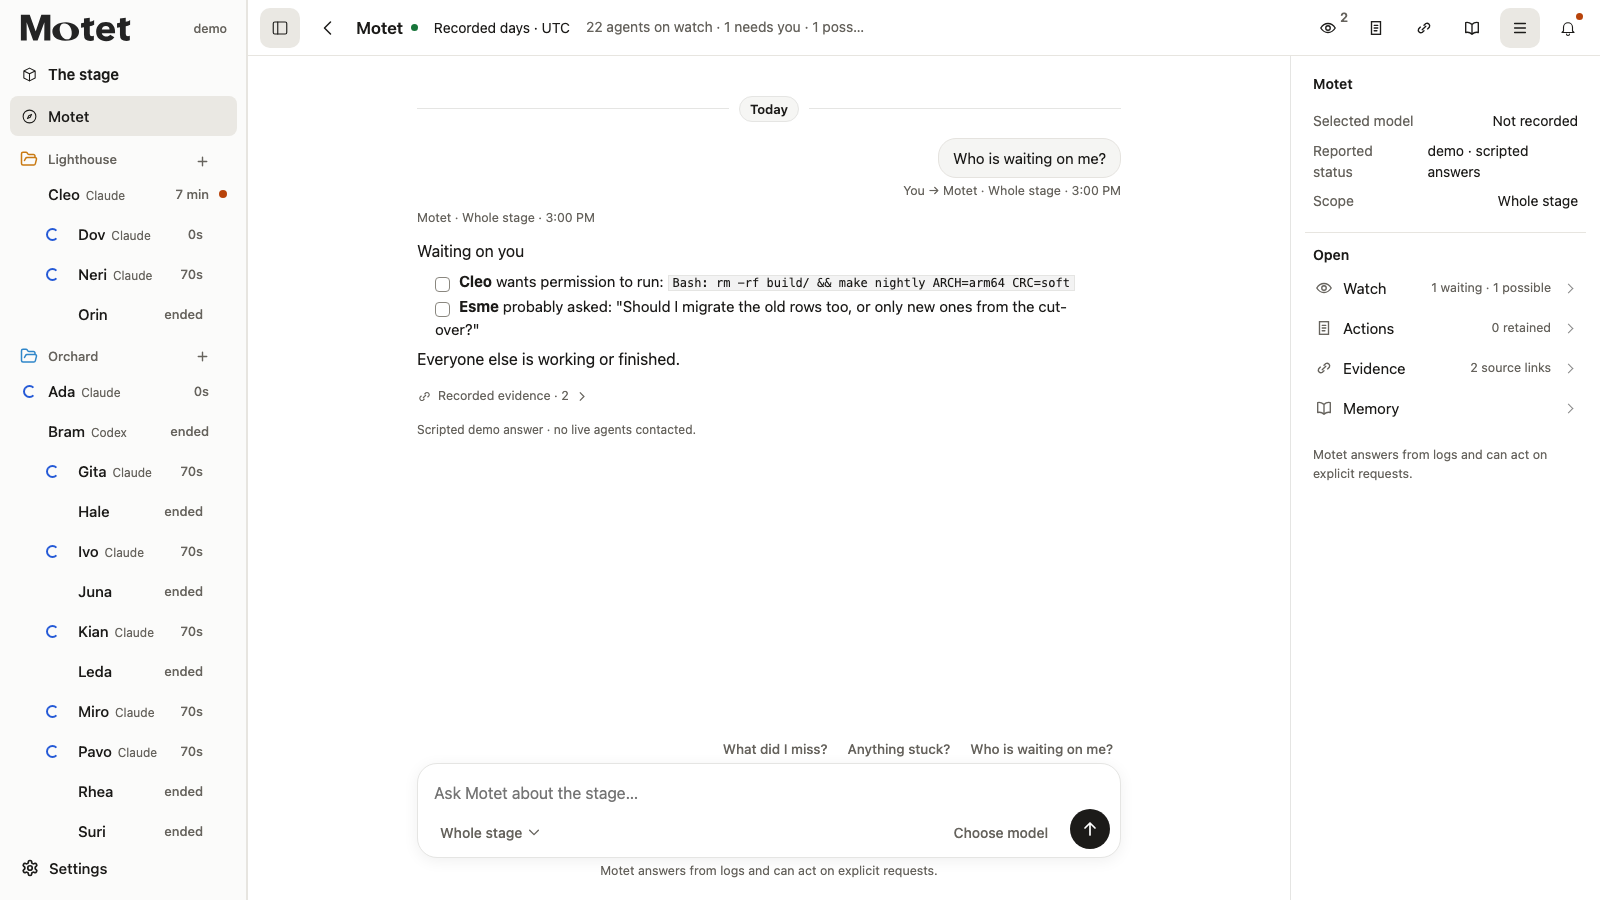
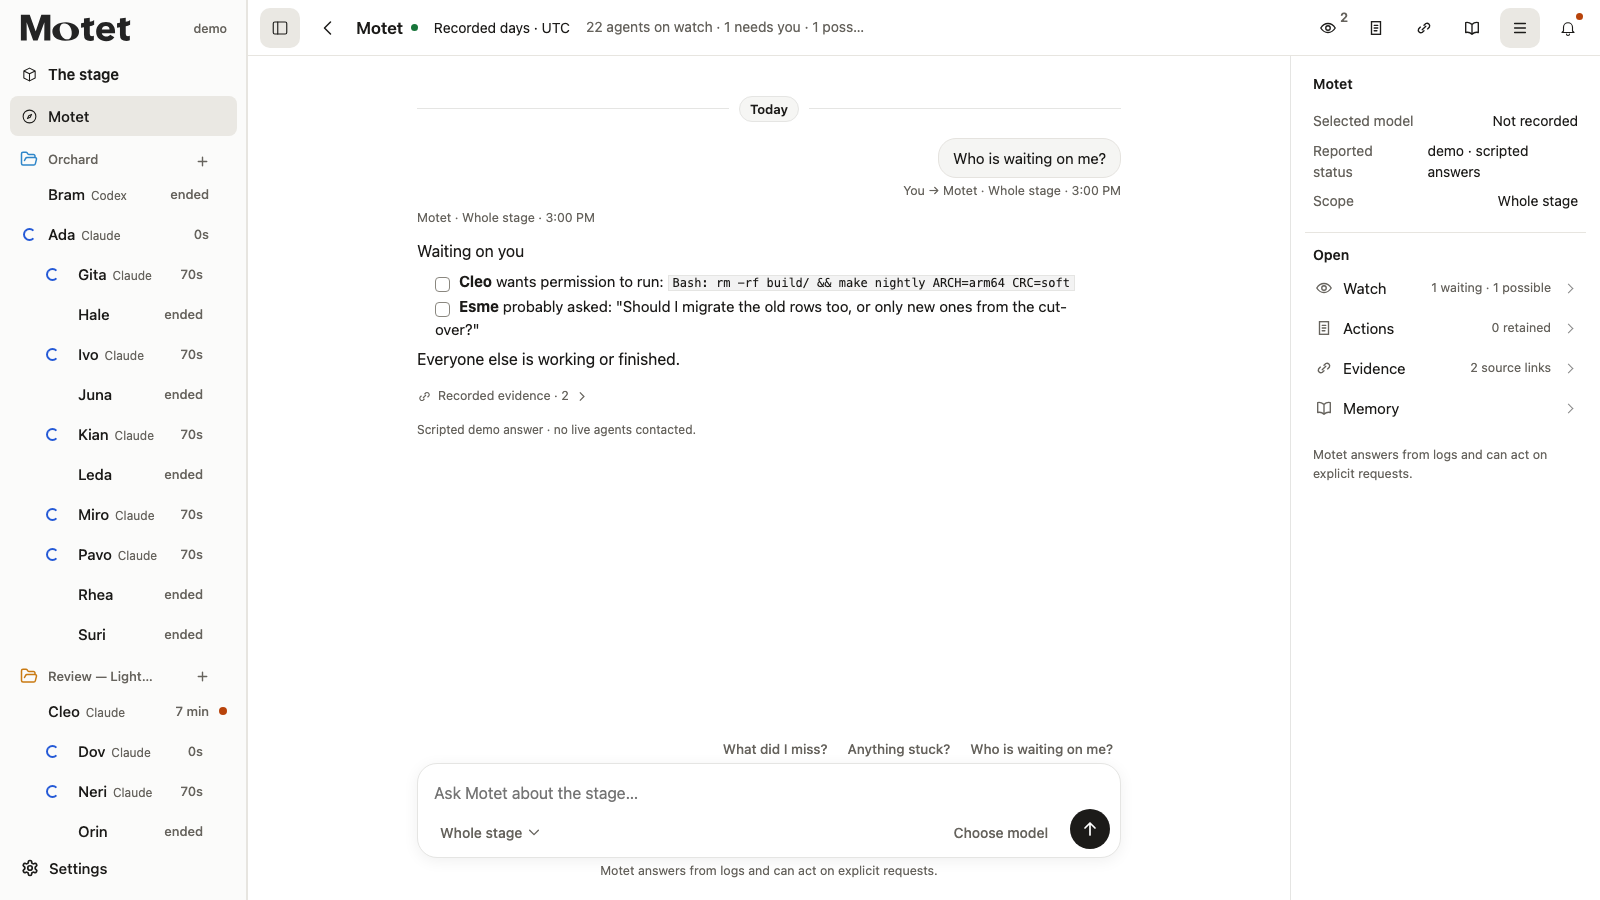
Keep the confirmed demo request visible in the hero

diff --git a/tests/test_page.js b/tests/test_page.js
@@ -4172,7 +4172,7 @@ let quietProofDeadline;(async()=>{
   const assert=require('assert/strict'),start=html.indexOf('function demo(){'),end=html.indexOf('/* Workspace shell helpers:',start),demoSource=html.slice(start,end);
   const expected=['Ada','Bram','Cleo','Dov','Esme','Codex cloud','Fen','Gita','Hale','Ivo','Juna','Kian','Leda','Miro','Neri','Orin','Pavo','Rhea','Suri','Tavi','Uma','Vero'];
   function verify(source){
-    const events=[],intervals=[],forbidden=()=>{throw Error('demo attempted a live effect')},c={Date:class extends Date{static now(){return 1800000000000}},DSEQ:0,location:{search:'?demo'},document:{createElement:()=>({})},$:()=>({after(){}}),paintWatch(){},lock(){},handle:e=>events.push(e),setInterval:(f,ms)=>intervals.push({f,ms}),setTimeout:forbidden,fetch:forbidden,XMLHttpRequest:forbidden,WebSocket:forbidden,EventSource:forbidden,Notification:forbidden,navigator:new Proxy({},{get:forbidden})};
+    const events=[],intervals=[],forbidden=()=>{throw Error('demo attempted a live effect')},c={Date:class extends Date{static now(){return 1800000000000}},DSEQ:0,location:{search:'?demo'},SNAMES:{},document:{createElement:()=>({})},$:()=>({after(){}}),paintWatch(){},lock(){},handle:e=>events.push(e),setInterval:(f,ms)=>intervals.push({f,ms}),setTimeout:forbidden,fetch:forbidden,XMLHttpRequest:forbidden,WebSocket:forbidden,EventSource:forbidden,Notification:forbidden,navigator:new Proxy({},{get:forbidden})};
     vm.runInNewContext(source+';demo();',c);
     const agents=events.filter(e=>e.kind==='agent'),byId=new Map(agents.map(a=>[a.agent,a])),roots=agents.filter(a=>!a.parent),kids=agents.filter(a=>a.parent);
     assert.equal(agents.length,22);assert.equal(byId.size,22);assert.equal(roots.length,6);assert.equal(kids.length,16);
@@ -4183,7 +4183,7 @@ let quietProofDeadline;(async()=>{
     for(const a of kids){assert.equal(a.sub,true);assert.ok(byId.has(a.parent));assert.equal(a.cwd,byId.get(a.parent).cwd);const seen=new Set([a.agent]);let p=a.parent;while(p){assert.ok(!seen.has(p),'no ancestry cycle');seen.add(p);p=byId.get(p).parent;}}
     const counts=Object.fromEntries(roots.map(a=>[a.name,kids.filter(k=>k.parent===a.agent).length]));
     assert.deepEqual(counts,{ 'Codex cloud':0,Ada:6,Bram:4,Cleo:3,Esme:2,Fen:1 });
-    assert.deepEqual(roots.filter(a=>a.cwd.endsWith('/Orchard')).map(a=>a.name),['Codex cloud','Ada','Bram']);
+    assert.deepEqual(roots.filter(a=>a.cwd.endsWith('/Orchard')).map(a=>a.name),['Codex cloud','Bram','Ada']);
     assert.equal(Math.ceil(counts.Ada/2),3,'existing pair layout reaches a third child row');
     assert.deepEqual(Object.fromEntries(['Orchard','Lighthouse','Tidewater'].map(p=>[p,agents.filter(a=>a.cwd.endsWith('/'+p)).length])),{Orchard:13,Lighthouse:4,Tidewater:5});
     const added=kids.filter(a=>a.name!=='Dov'),results=added.map(a=>events.find(e=>e.agent===a.agent&&e.kind==='result').text);
@@ -4194,6 +4194,7 @@ let quietProofDeadline;(async()=>{
     const ended=new Set(events.filter(e=>e.kind==='turn_end').map(e=>e.agent));
     assert.deepEqual(agents.filter(a=>ended.has(a.agent)).map(a=>a.name).sort(),['Bram','Esme','Fen','Hale','Juna','Leda','Orin','Rhea','Suri','Uma']);
     assert.equal(agents.length-ended.size,12);assert.equal(agents.filter(a=>a.observed).length,1);
+    assert.equal(c.SNAMES.Lighthouse,'Review — Lighthouse');
     assert.equal(c.HEALTH.tails,21);assert.equal(events.filter(e=>e.kind==='health').at(-1).tails,21);
     assert.equal(events.filter(e=>e.error).length,1,'Cleo remains the sole recorded failure');
     assert.deepEqual(events.filter(e=>e.kind==='perm').map(e=>e.agent),['c:demo-cleo']);

diff --git a/src/web/index.html b/src/web/index.html
@@ -5918,12 +5918,13 @@ function demo(){
   setInterval(()=>{HEALTH.at=now(); HEALTH.now=now(); HEALTH.scan=now()},3000);
   const tag=document.createElement('span'); tag.id='demoTag'; tag.textContent='DEMO · synthetic agents · nothing here is real'; $('#brand').after(tag);
   const P={orchard:'/Users/demo/Projects/Orchard',lighthouse:'/Users/demo/Projects/Lighthouse',tidewater:'/Users/demo/Projects/Tidewater'};
+  SNAMES.Lighthouse='Review — Lighthouse'; // A fictional display name; keep the build folder and history intact.
   const ag=(id,o)=>handle(Object.assign({kind:'agent',agent:id,ts:t,started:o.started||t},o));
   const ev=(id,o)=>handle(Object.assign({agent:id,ts:t,seq:++DSEQ},o));
   /* the fleet */
   ag('e:demo-dot',{name:'Codex cloud',runtime:'Codex cloud',cwd:P.orchard,observed:'the process list, sampled about once a second (a sample can take longer while a folder is being looked up): a shorter command can be missed; of more than four new commands at once the oldest four are examined and the rest the next sample, so a short-lived one among them can be missed; each command\'s folder from lsof; what a command changed is not recorded here'});
-  ag('c:demo-ada',{name:'Ada',runtime:'Claude',cwd:P.orchard,model:'claude-opus-5-5',branch:'pricing-table',goal:'Add the seasonal pricing table to the catalogue and wire it to checkout.',ctx:61000,ctxref:140000});
   ag('x:demo-bram',{name:'Bram',runtime:'Codex',cwd:P.orchard,model:'gpt-6-astra',branch:'pricing-table',goal:"Review Ada's pricing change before it ships. Read-only.",ctx:88000,ctxmax:258000});
+  ag('c:demo-ada',{name:'Ada',runtime:'Claude',cwd:P.orchard,model:'claude-opus-5-5',branch:'pricing-table',goal:'Add the seasonal pricing table to the catalogue and wire it to checkout.',ctx:61000,ctxref:140000});
   ag('c:demo-cleo',{name:'Cleo',runtime:'Claude',cwd:P.lighthouse,model:'claude-sonnet-5-5',branch:'main',goal:'Find out why the nightly build fails on arm64 and fix it.',ctx:120000,ctxref:140000});
   ag('c:demo-dov',{name:'Dov',runtime:'Claude',cwd:P.lighthouse,parent:'c:demo-cleo',sub:true,task:'log search',goal:'Search the build logs for the first arm64 failure and report the line.',ctx:14000});
   ag('x:demo-esme',{name:'Esme',runtime:'Codex',cwd:P.tidewater,model:'gpt-6-astra',branch:'sessions-migration',goal:'Migrate the sessions table to the new schema without downtime.',ctx:150000,ctxmax:258000});
